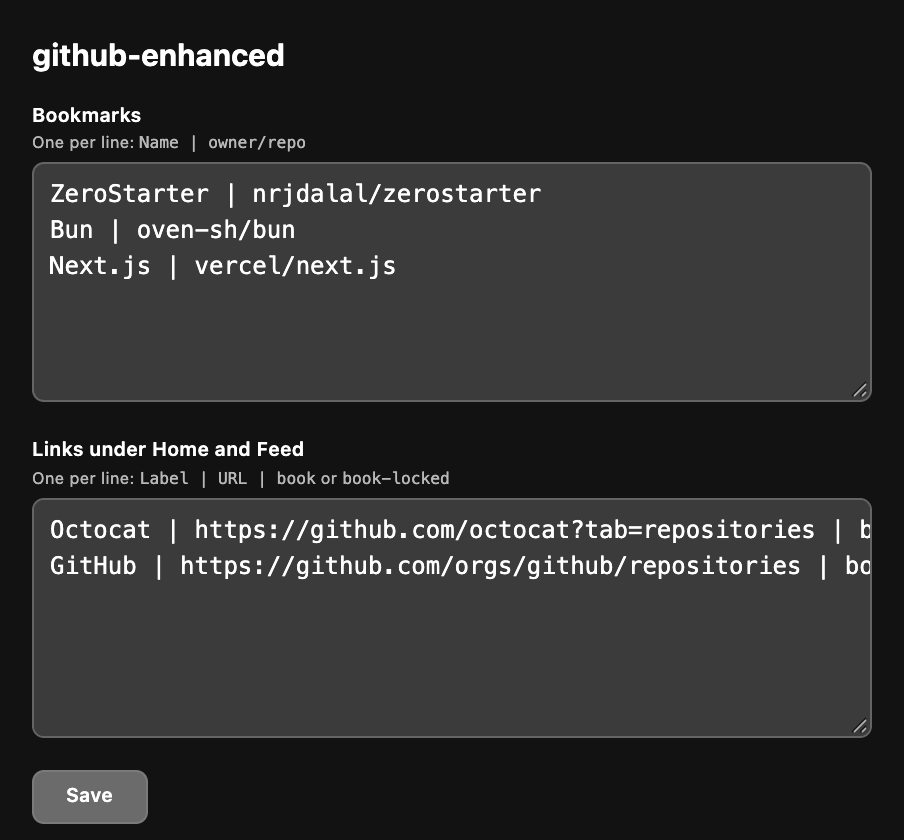
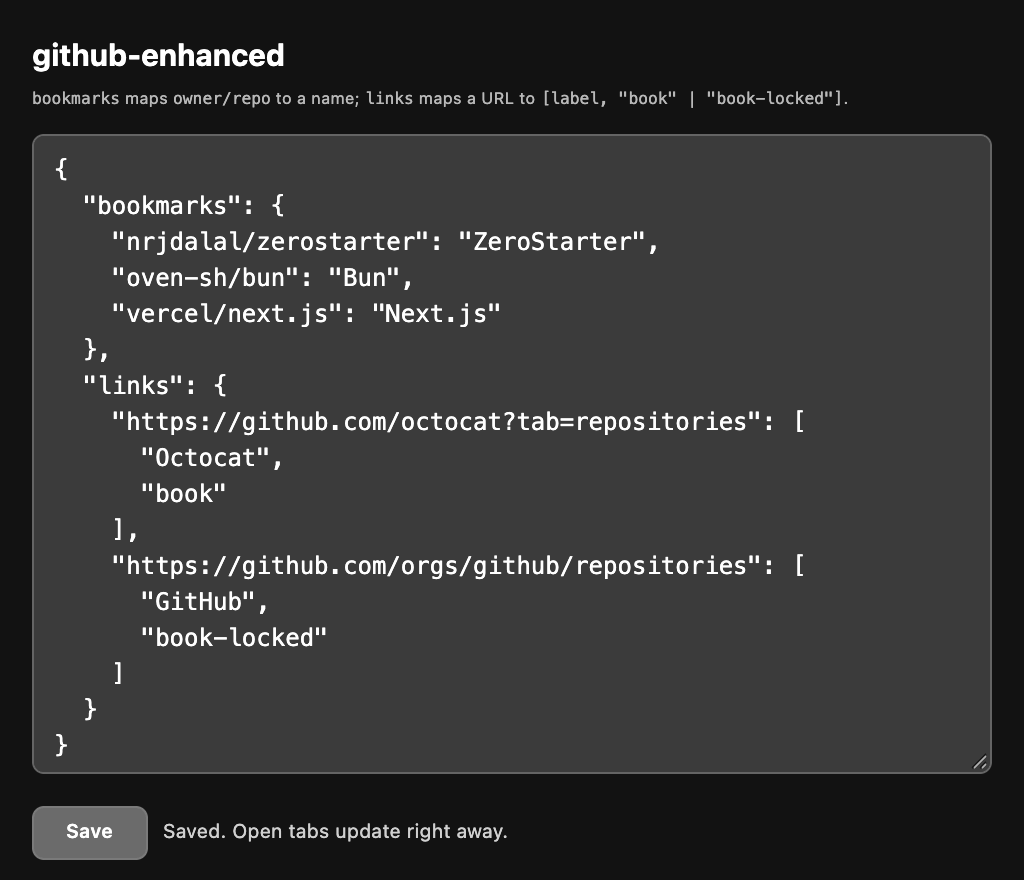
feat: JSON config in settings, and an unpacked install reloads itself when its folder changes

Changed region(s): [[0.031, 0.031, 0.9912, 0.9905], [0.6814, 0.0929, 0.8363, 0.1238], [0.9292, 0.8667, 0.9602, 0.8976]]

diff --git a/settings.html b/settings.html
@@ -9,17 +9,12 @@
         font: 13px/1.5 -apple-system, BlinkMacSystemFont, "Segoe UI", sans-serif;
       }
       body {
-        width: 420px;
+        width: 480px;
         margin: 16px;
       }
       h1 {
-        margin: 0 0 12px;
+        margin: 0 0 4px;
         font-size: 15px;
-      }
-      label {
-        display: block;
-        margin-top: 12px;
-        font-weight: 600;
       }
       small {
         display: block;
@@ -28,13 +23,14 @@
       textarea {
         box-sizing: border-box;
         width: 100%;
-        height: 120px;
-        margin-top: 4px;
-        padding: 6px 8px;
+        height: 320px;
+        margin-top: 12px;
+        padding: 8px 10px;
         border: 1px solid #8888;
         border-radius: 6px;
         font: 12px/1.5 ui-monospace, Menlo, monospace;
         white-space: pre;
+        tab-size: 2;
       }
       button {
         margin-top: 12px;
@@ -46,18 +42,14 @@
       }
       output {
         margin-left: 8px;
-        opacity: 0.7;
+        opacity: 0.8;
       }
     </style>
   </head>
   <body>
     <h1>github-enhanced</h1>
-    <label for="bookmarks">Bookmarks</label>
-    <small>One per line: <code>Name | owner/repo</code></small>
-    <textarea id="bookmarks" spellcheck="false" placeholder="ZeroStarter | nrjdalal/zerostarter"></textarea>
-    <label for="nav">Links under Home and Feed</label>
-    <small>One per line: <code>Label | URL | book</code> or <code>book-locked</code></small>
-    <textarea id="nav" spellcheck="false" placeholder="Octocat | https://github.com/octocat?tab=repositories | book"></textarea>
+    <small><code>bookmarks</code> maps <code>owner/repo</code> to a name; <code>links</code> maps a URL to <code>[label, "book" | "book-locked"]</code>.</small>
+    <textarea id="config" spellcheck="false" aria-label="Config (JSON)"></textarea>
     <button id="save">Save</button><output id="status"></output>
     <script src="settings.js"></script>
   </body>

diff --git a/github.js b/github.js
@@ -13,7 +13,7 @@
   const CONFIG = "github-enhanced-config"
   let config = JSON.parse(localStorage.getItem(CONFIG) ?? "{}")
   const reserveNav = () => {
-    const rows = Math.ceil((config.nav ?? []).length / 2)
+    const rows = Math.ceil(Object.keys(config.links ?? {}).length / 2)
     if (rows) document.documentElement.style.setProperty("--ujc-nav-rows", rows)
     else document.documentElement.style.removeProperty("--ujc-nav-rows")
   }
@@ -28,7 +28,7 @@
       const head = document.createElement("h2")
       head.textContent = "Bookmarks"
       const list = document.createElement("ul")
-      for (const [name, repo] of config.bookmarks ?? []) {
+      for (const [repo, name] of Object.entries(config.bookmarks ?? {})) {
         const li = document.createElement("li")
         const a = document.createElement("a")
         a.href = `/${repo}`
@@ -52,7 +52,7 @@
     if (!list || ![...list.querySelectorAll("a")].some((a) => a.textContent.trim() === "Feed")) return
     const template = [...list.children].find((li) => !li.hasAttribute("data-ujc-extra") && !li.classList.contains("ActionListItem--navActive"))
     if (!template?.querySelector(".ActionListItem-label")?.textContent.trim() || list.querySelector("[data-ujc-extra]")) return
-    for (const [label, href, iconName] of config.nav ?? []) {
+    for (const [href, [label, iconName]] of Object.entries(config.links ?? {})) {
       const li = template.cloneNode(true)
       li.setAttribute("data-ujc-extra", "")
       li.removeAttribute("data-item-id")
@@ -218,7 +218,7 @@
 
   const cacheAvatars = async () => {
     const next = {}
-    for (const owner of new Set((config.bookmarks ?? []).map(([, repo]) => repo.split("/")[0]))) {
+    for (const owner of new Set(Object.keys(config.bookmarks ?? {}).map((repo) => repo.split("/")[0]))) {
       const url = (await toDataUrl(avatarUrl(owner))) ?? avatars[owner]
       if (url) next[owner] = url
     }

diff --git a/settings.js b/settings.js
@@ -1,13 +1,24 @@
-const fields = { bookmarks: document.getElementById("bookmarks"), nav: document.getElementById("nav") }
-const parse = (text) => text.split("\n").map((line) => line.split("|").map((part) => part.trim())).filter(([first, second]) => first && second)
+const field = document.getElementById("config")
+const status = document.getElementById("status")
+const EMPTY = { bookmarks: {}, links: {} }
 
-chrome.storage.sync.get("config", ({ config = {} }) => {
-  fields.bookmarks.value = (config.bookmarks ?? []).map((row) => row.join(" | ")).join("\n")
-  fields.nav.value = (config.nav ?? []).map((row) => row.join(" | ")).join("\n")
+chrome.storage.sync.get("config", ({ config }) => {
+  field.value = JSON.stringify(config ?? EMPTY, null, 2)
 })
 
 document.getElementById("save").addEventListener("click", async () => {
-  const nav = parse(fields.nav.value).map(([label, url, icon]) => [label, url, icon === "book-locked" ? "book-locked" : "book"])
-  await chrome.storage.sync.set({ config: { bookmarks: parse(fields.bookmarks.value), nav } })
-  document.getElementById("status").textContent = "Saved. Open tabs update right away."
+  let config
+  try {
+    config = JSON.parse(field.value)
+  } catch (error) {
+    status.textContent = `Not valid JSON: ${error.message}`
+    return
+  }
+  if (typeof config !== "object" || config === null || Array.isArray(config)) {
+    status.textContent = "The config must be a JSON object."
+    return
+  }
+  await chrome.storage.sync.set({ config })
+  field.value = JSON.stringify(config, null, 2)
+  status.textContent = "Saved. Open tabs update right away."
 })

diff --git a/background.js b/background.js
@@ -1,0 +1,14 @@
+// An unpacked install reloads itself once its files change on disk, so a git pull in its folder is all an update takes.
+const FILES = ["manifest.json", "background.js", "bridge.js", "github.js", "github.css", "settings.html", "settings.js"]
+const read = () => Promise.all(FILES.map((file) => fetch(chrome.runtime.getURL(file)).then((res) => res.text()))).then((texts) => texts.join("\0"))
+
+chrome.runtime.onMessage.addListener((message) => {
+  if (message !== "check-update") return
+  ;(async () => {
+    if ((await chrome.management.getSelf()).installType !== "development") return
+    const now = await read()
+    const { files } = await chrome.storage.session.get("files")
+    if (files === undefined) await chrome.storage.session.set({ files: now })
+    else if (files !== now) chrome.runtime.reload()
+  })()
+})

diff --git a/bridge.js b/bridge.js
@@ -7,3 +7,4 @@ const sync = (config) => {
 }
 chrome.storage.sync.get("config", ({ config }) => sync(config))
 chrome.storage.onChanged.addListener((changes) => changes.config && sync(changes.config.newValue))
+chrome.runtime.sendMessage("check-update")

diff --git a/README.md b/README.md
@@ -38,14 +38,29 @@ It works in Chrome and other Chromium browsers, such as Helium, Arc, Brave and E
 
 ## Settings
 
-Click the extension's toolbar button, or its **Options**, to set your bookmarks and the links under Home and Feed. Open github.com tabs update as soon as you save.
+Click the extension's toolbar button, or its **Options**, to edit its config, one JSON object. Open github.com tabs update as soon as you save.
 
-<img src="assets/settings.png" alt="Settings with a Bookmarks list and a Links list, one entry per line" width="452">
+<img src="assets/settings.png" alt="Settings with the config as JSON: bookmarks and links" width="512">
 
-- **Bookmarks:** one per line, `Name | owner/repo`.
-- **Links under Home and Feed:** one per line, `Label | URL | book`, or `book-locked` for the locked book icon.
+```json
+{
+  "bookmarks": {
+    "nrjdalal/zerostarter": "ZeroStarter"
+  },
+  "links": {
+    "https://github.com/octocat?tab=repositories": ["Octocat", "book"]
+  }
+}
+```
 
-Settings sync through your browser profile. Bookmark avatars are kept in github.com's localStorage and refreshed after each dashboard load, so from the second visit on they paint with the page.
+- `bookmarks` maps `owner/repo` to the name shown in Bookmarks, in order.
+- `links` maps a URL to a row under Home and Feed as `[label, icon]`, the icon `book` or `book-locked`.
+
+The config syncs through your browser profile. Bookmark avatars are kept in github.com's localStorage and refreshed after each dashboard load, so from the second visit on they paint with the page.
+
+## Updates
+
+With **Developer mode** on, the extension reloads itself once its folder changes, so `git pull` is all an update takes; the next github.com page load picks it up.
 
 ## License
 
